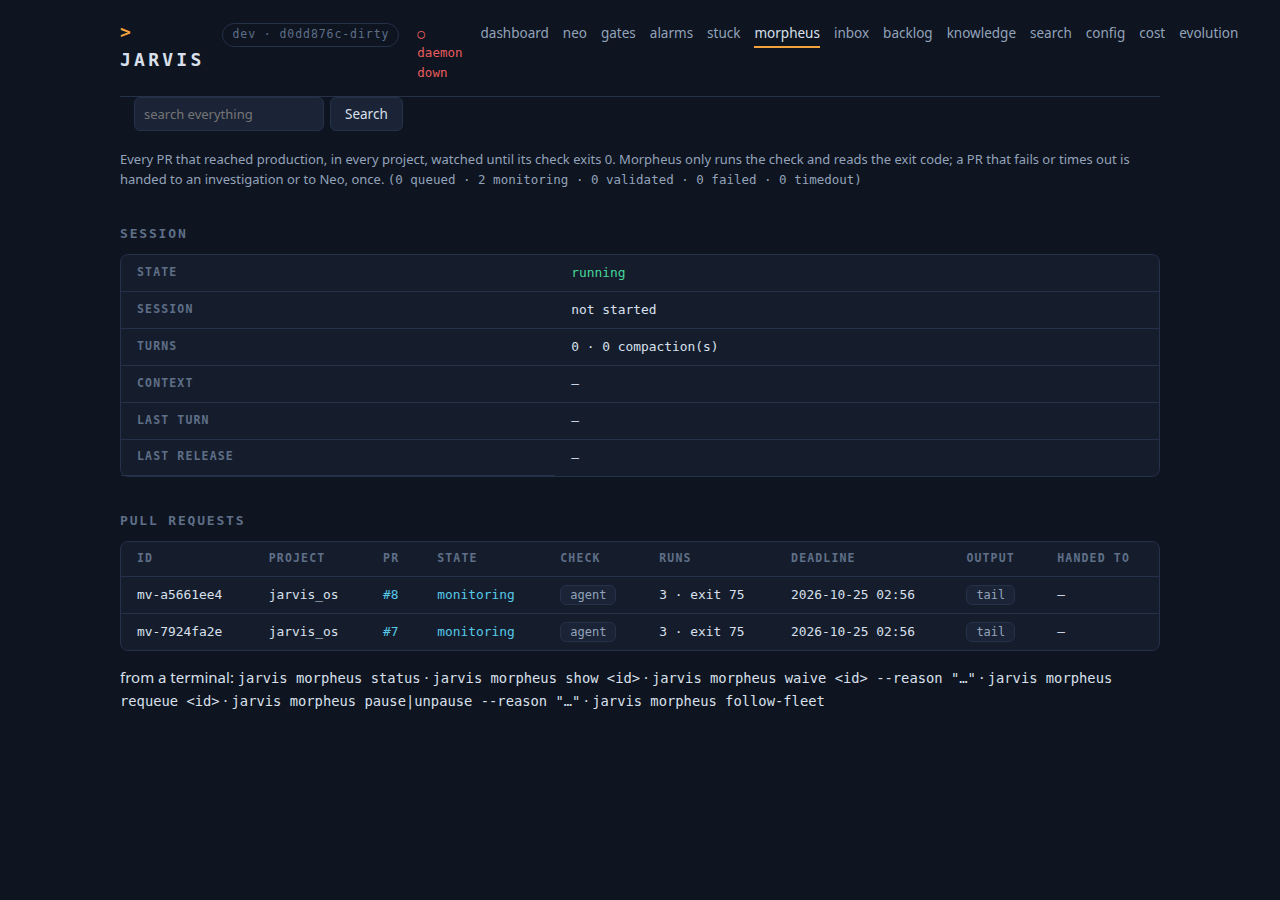
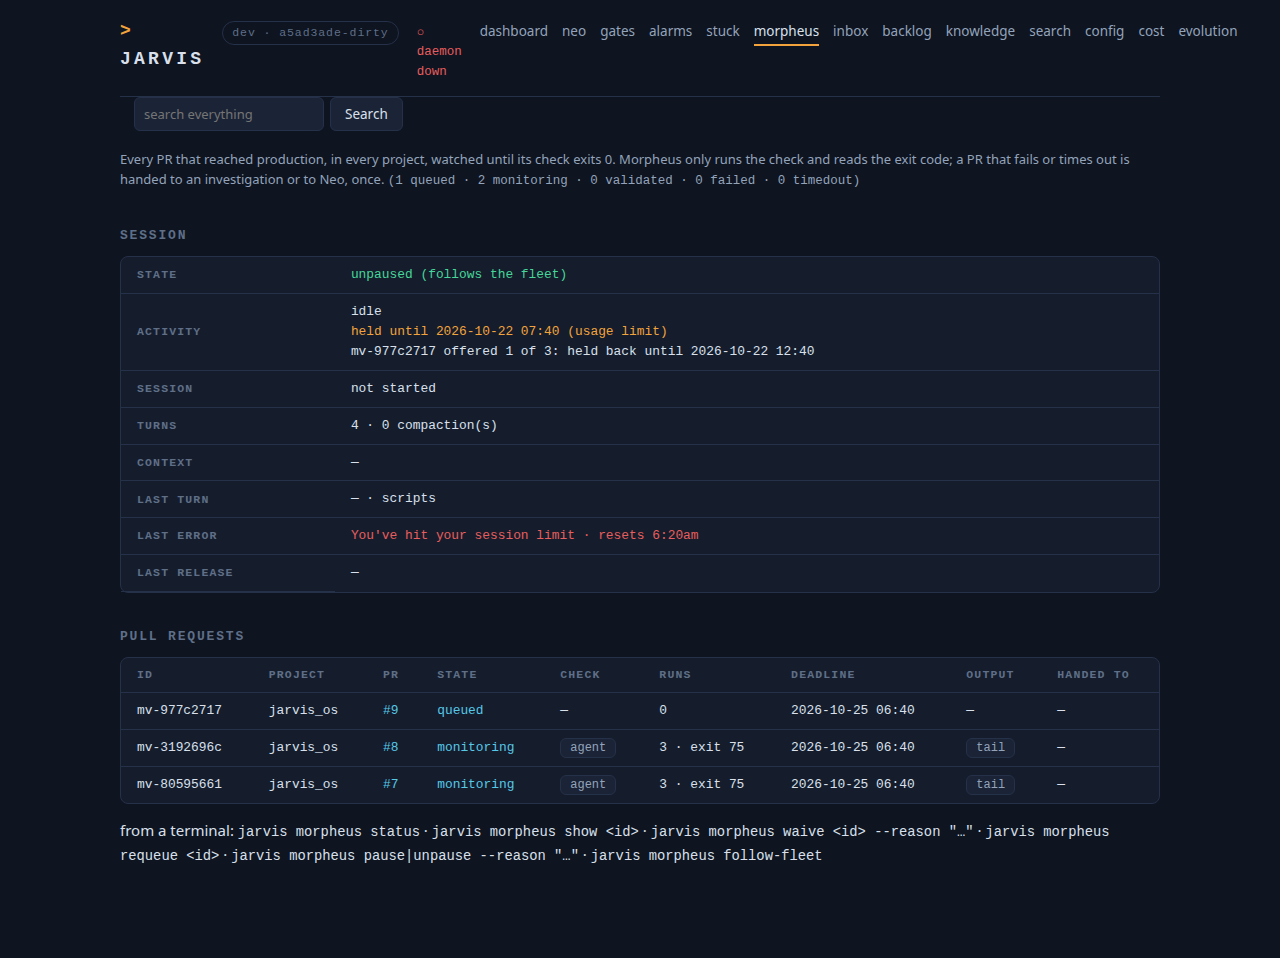
[wo-7ff73f52] Morpheus: a usage-limit refusal costs no offer and holds until the reset (#1172)
* A Morpheus turn refused by the usage window costs no offer (#1171)

UsageLimitError gets its own branch before ClaudeCliError: no offer is spent,
the session is held until the reset instant the error names, and the first pass
after it re-offers the batch. The per-item hold now carries a tri-state cause,
so a pre-#1161 entry no longer claims it was held "after an offer".

Claude-Session: https://claude.ai/code/session_01ADxgfPKtC7fmUBRC45D2Fk

* Screenshot the usage hold on /morpheus for the PR

Claude-Session: https://claude.ai/code/session_01ADxgfPKtC7fmUBRC45D2Fk

* Trim the test docstring the comment check rejected

Claude-Session: https://claude.ai/code/session_01ADxgfPKtC7fmUBRC45D2Fk

---------

diff --git a/src/jarvis/ui/templates/morpheus.html b/src/jarvis/ui/templates/morpheus.html
@@ -52,9 +52,11 @@
       {% if act.turn_in_flight %}<span class="tone-active">{{ act.turn_kind or "turn" }} in flight since {{ fmt_ts(act.turn_started_ts) }}</span>
       {% elif act.abandoned_turn_ts %}<span class="tone-warn">idle — the {{ act.turn_kind or "turn" }} started {{ fmt_ts(act.abandoned_turn_ts) }} never finished</span>
       {% else %}idle{% if act.due %} · {{ act.due }} queued due now{% endif %}{% endif %}
+      {% if act.usage_hold_until %}<br><span class="tone-warn">held until {{ fmt_ts(act.usage_hold_until) }} (usage limit)</span>{% endif %}
+      {% set why = {"error": " after a failed turn", "offer": " after an offer"} %}
       {% for h in act.held %}<br>{{ h.id }} offered {{ h.offers }} of {{ act.max_offers }}:
         {% if h.exhausted %}no offer left, it will time out
-        {% else %}held back after {{ "a failed turn" if h.after_error else "an offer" }} until {{ fmt_ts(h.next_offer_ts) }}{% endif %}
+        {% else %}held back{{ why.get(h.cause, "") }} until {{ fmt_ts(h.next_offer_ts) }}{% endif %}
       {% endfor %}</td></tr>
     <tr><th>session</th><td class="mono">{{ sess.get('session_id') or "not started" }}</td></tr>
     <tr><th>turns</th><td class="mono">{{ sess.get('turns') or 0 }} · {{ sess.get('compactions') or 0 }} compaction(s)

diff --git a/tests/test_morpheus.py b/tests/test_morpheus.py
@@ -9,7 +9,7 @@ from pathlib import Path
 
 import pytest
 
-from jarvis import claude_cli, hooks, morpheus
+from jarvis import claude_cli, db, hooks, morpheus
 from jarvis.catalog import Catalog, CatalogError, MorpheusConfig, OsConfig, parse_catalog
 from jarvis.central_store import CentralStore
 from jarvis.testing import TEST_EPOCH
@@ -542,6 +542,56 @@ def test_a_turn_killed_before_it_answered_costs_no_offer(central, tmp_path):
                          call=turn) == "scripts"
 
 
+def refused(reset_at: float | None) -> "claude_cli.UsageLimitError":
+    return claude_cli.UsageLimitError(claude_cli.UsageLimit(
+        message="You've hit your session limit · resets 6:20am (America/Los_Angeles)",
+        reset_at=reset_at))
+
+
+def test_a_turn_refused_by_the_usage_window_costs_no_offer_and_waits_for_the_reset(central,
+                                                                                   tmp_path):
+    """The model never answered: the same class as a kill (#1171)"""
+    reset_at = TEST_EPOCH + 4000
+    turn = FakeTurn(error=refused(reset_at))
+    queued(central, 2)
+    assert morpheus.wake(central, catalog(), tmp_path, now=TEST_EPOCH,
+                         call=turn) == "usage_limit"
+    state = morpheus.session_state(central)
+    assert state["usage_limits"] == 1 and state["usage_hold_until"] == reset_at
+    assert not state.get("offers") and not state.get("errors")
+    assert morpheus.activity(central, now=TEST_EPOCH + 60)["usage_hold_until"] == reset_at
+    # Not one turn is attempted while the window is spent, whatever is queued
+    turn.error = None
+    assert morpheus.wake(central, catalog(), tmp_path, now=reset_at - 1,
+                         call=turn) == "usage_held"
+    assert len(turn.calls) == 1
+    # The first pass after the reset offers the same batch again
+    assert morpheus.wake(central, catalog(), tmp_path, now=reset_at, call=turn) == "scripts"
+    assert len(turn.calls) == 2
+    assert morpheus.activity(central, now=reset_at)["usage_hold_until"] is None
+
+
+def test_a_refusal_that_named_no_reset_holds_for_the_fallback_delay(central, tmp_path):
+    from jarvis.worker_session import RATE_LIMIT_FALLBACK_DELAY
+
+    queued(central, 2)
+    morpheus.wake(central, catalog(), tmp_path, now=TEST_EPOCH, call=FakeTurn(error=refused(None)))
+    state = morpheus.session_state(central)
+    assert state["usage_hold_until"] == TEST_EPOCH + RATE_LIMIT_FALLBACK_DELAY
+
+
+def test_the_status_line_says_the_session_is_held_by_the_usage_window(central, tmp_path, capsys,
+                                                                     clock):
+    from jarvis.cli import main
+
+    queued(central, 2)
+    morpheus.wake(central, catalog(), tmp_path, now=db.now(),
+                  call=FakeTurn(error=refused(db.now() + 4000)))
+    assert main(["morpheus", "status"]) == 0
+    out = capsys.readouterr().out
+    assert "(usage limit)" in out and "held until" in out
+
+
 # -- 6b. the surfaces say what the session is DOING, not only what it is allowed to do (#1162)
 
 
@@ -576,14 +626,28 @@ def test_a_queued_item_in_the_reoffer_backoff_says_when_and_why(central, tmp_pat
     act = morpheus.activity(central, now=TEST_EPOCH + 60)
     assert act["due"] == 0 and act["turn_in_flight"] is False
     assert act["held"] == [{"id": item["id"], "offers": 1, "exhausted": False,
-                            "after_error": True,
+                            "cause": "error",
                             "next_offer_ts": TEST_EPOCH + morpheus.REOFFER_SECONDS}]
     for n in range(1, morpheus.MAX_OFFERS):
         morpheus.wake(central, catalog(), tmp_path, call=FakeTurn(fail=True),
                       now=TEST_EPOCH + n * morpheus.REOFFER_SECONDS + 1)
     spent = morpheus.activity(central, now=TEST_EPOCH + 10 * DAY)["held"]
     assert spent == [{"id": item["id"], "offers": morpheus.MAX_OFFERS, "exhausted": True,
-                      "after_error": True, "next_offer_ts": None}]
+                      "cause": "error", "next_offer_ts": None}]
+
+
+def test_an_offer_entry_written_before_the_cause_was_recorded_claims_no_cause(central, capsys,
+                                                                             clock):
+    """Pre-#1161 entries were killed turns rendered as 'after an offer'"""
+    from jarvis.cli import main
+
+    item = queued(central, 2)
+    central.set_state(morpheus.SESSION_KEY, json.dumps(
+        {"offers": {item["id"]: {"n": 1, "ts": db.now()}}}))
+    assert morpheus.activity(central, now=db.now() + 60)["held"][0]["cause"] is None
+    assert main(["morpheus", "status"]) == 0
+    out = capsys.readouterr().out
+    assert "held back until" in out and "after an offer" not in out
 
 
 def test_the_status_line_separates_the_pause_mode_from_the_activity(central, tmp_path, capsys,
@@ -782,6 +846,22 @@ def test_the_dashboard_shows_each_item_s_id_to_copy(central):
     page = TestClient(create_app()).get("/morpheus")
     assert f'title="click to select, then copy">{item["id"]}</td>' in page.text
     assert "jarvis morpheus unpause" in page.text and "validate the release" in page.text
+
+
+def test_the_dashboard_shows_the_activity_and_its_backoff_not_only_the_pause_mode(central,
+                                                                                  tmp_path):
+    """#1171: the pause mode read healthy while the usage window held every turn"""
+    from fastapi.testclient import TestClient
+
+    from jarvis.ui.app import create_app
+
+    item = queued(central, 2)
+    morpheus.wake(central, catalog(), tmp_path, now=db.now(),
+                  call=FakeTurn(error=refused(db.now() + 4000)))
+    page = TestClient(create_app()).get("/morpheus").text
+    assert "unpaused (follows the fleet)" in page and "(usage limit)" in page
+    # Nothing was offered, so the item is not held back on its own account
+    assert f"{item['id']} offered" not in page
 
 
 def test_the_dashboard_opens_check_and_output_in_a_modal_not_in_the_table(central):

diff --git a/src/jarvis/morpheus.py b/src/jarvis/morpheus.py
@@ -643,6 +643,12 @@ def wake(central: CentralStore, catalog: Catalog, cwd: Path, *, paused: bool = F
     call = call or claude_cli.run_session_turn
     dirs = dirs or {}
     state = session_state(central)
+    hold = float(state.get("usage_hold_until") or 0)
+    if now < hold:
+        # The account's window is spent: any turn would be refused, so none is attempted (#1171)
+        return "usage_held"
+    if hold:
+        state.pop("usage_hold_until", None)
     items = wanting_scripts(central, now=now)
     if not state.get("compact_due") and not items:
         return "idle"
@@ -662,8 +668,23 @@ def wake(central: CentralStore, catalog: Catalog, cwd: Path, *, paused: bool = F
                       append_system_prompt=MORPHEUS_PERSONA,
                       permission_mode=catalog.os.default_permission_mode,
                       add_dirs=add_dirs, timeout=cfg.turn_timeout_seconds)
+    except claude_cli.UsageLimitError as e:
+        # BEFORE ClaudeCliError, its base: the window refused the call, so it costs no offer (#1171)
+        from .worker_session import RATE_LIMIT_FALLBACK_DELAY
+
+        state.pop("turn_started_ts", None)
+        state["last_error"] = str(e)[:500]
+        state["usage_limits"] = int(state.get("usage_limits") or 0) + 1
+        state["usage_hold_until"] = e.limit.reset_at or now + RATE_LIMIT_FALLBACK_DELAY
+        if not resume:
+            state.pop("session_id", None)
+        _save_session(central, state)
+        log.warning("morpheus turn refused by the usage window, held until %s: %s",
+                    state["usage_hold_until"], e)
+        return "usage_limit"
     except claude_cli.KilledError as e:
         # BEFORE ClaudeCliError, its base: a kill is not an answer, so it costs no offer (#1161)
+        state.pop("turn_started_ts", None)
         state["last_error"] = str(e)[:500]
         state["kills"] = int(state.get("kills") or 0) + 1
         if not resume:
@@ -737,7 +758,17 @@ def _mark_offered(state: dict[str, Any], items: list[dict], now: float,
     offers = state.setdefault("offers", {})
     for item in items:
         seen = offers.get(item["id"]) or {}
-        offers[item["id"]] = {"n": int(seen.get("n") or 0) + 1, "ts": now, "error": error}
+        offers[item["id"]] = {"n": int(seen.get("n") or 0) + 1, "ts": now,
+                              "cause": "error" if error else "offer"}
+
+
+def _offer_cause(seen: dict[str, Any]) -> str | None:
+    """None for an entry written before the cause was recorded — unknown, not "an offer" (#1171)"""
+    if seen.get("cause"):
+        return str(seen["cause"])
+    if "error" in seen:
+        return "error" if seen["error"] else "offer"
+    return None
 
 
 def activity(central: CentralStore, *, timeout: float | None = None,
@@ -758,11 +789,13 @@ def activity(central: CentralStore, *, timeout: float | None = None,
         n, ts = int(seen.get("n") or 0), float(seen.get("ts") or 0)
         if n >= MAX_OFFERS:
             held.append({"id": item["id"], "offers": n, "next_offer_ts": None,
-                         "exhausted": True, "after_error": bool(seen.get("error"))})
+                         "exhausted": True, "cause": _offer_cause(seen)})
         elif now - ts < REOFFER_SECONDS:
             held.append({"id": item["id"], "offers": n, "next_offer_ts": ts + REOFFER_SECONDS,
-                         "exhausted": False, "after_error": bool(seen.get("error"))})
-    return {"turn_in_flight": in_flight, "turn_kind": state.get("last_turn_kind") or "",
+                         "exhausted": False, "cause": _offer_cause(seen)})
+    usage_hold = float(state.get("usage_hold_until") or 0)
+    return {"usage_hold_until": usage_hold if now < usage_hold else None,
+            "turn_in_flight": in_flight, "turn_kind": state.get("last_turn_kind") or "",
             "turn_started_ts": started if in_flight else None,
             "abandoned_turn_ts": started if started and not in_flight else None,
             "due": len(wanting_scripts(central, now=now)),

diff --git a/scripts/screenshot_morpheus.py b/scripts/screenshot_morpheus.py
@@ -34,6 +34,15 @@ def seed() -> None:
         store.update_morpheus_item(item["id"], script=SCRIPT, script_source="agent",
                                    state="monitoring", checks=3, last_exit=75,
                                    last_output="\n".join(f"line {k}: not yet" for k in range(40)))
+    # A usage-window hold, and an offer entry written before the cause was recorded (#1171)
+    pr = morpheus.PullRequestBody(number=9, url="https://github.com/o/r/pull/9",
+                                  title="[wo-1234abc9] thing 9",
+                                  body="## How to validate in production\nlook\n")
+    waiting = morpheus.enqueue(store, MorpheusConfig(), pr, project="jarvis_os", repo="o/r")
+    morpheus._save_session(store, {"last_turn_kind": "scripts", "turns": 4,
+                                   "usage_hold_until": time.time() + 3600,
+                                   "last_error": "You've hit your session limit · resets 6:20am",
+                                   "offers": {waiting["id"]: {"n": 1, "ts": time.time()}}})
     store.close()
 
 
@@ -54,6 +63,7 @@ def shoot() -> None:
         page = browser.new_page(viewport={"width": 1280, "height": 900})
         page.goto(f"http://127.0.0.1:{PORT}/morpheus")
         page.screenshot(path=SHOTS / "morpheus-table.png", full_page=True)
+        page.locator("div.panel").first.screenshot(path=SHOTS / "morpheus-session-hold.png")
         page.locator("button.peek", has_text="agent").first.click()
         page.wait_for_timeout(200)
         page.screenshot(path=SHOTS / "morpheus-check-modal.png")

diff --git a/src/jarvis/cli.py b/src/jarvis/cli.py
@@ -3951,12 +3951,14 @@ def _morpheus_activity_text(act: dict) -> str:
                  f"{_stamp(act['abandoned_turn_ts'])} never finished)"]
     else:
         parts = [f"idle · {act['due']} queued due now" if act["due"] else "idle"]
+    if act.get("usage_hold_until"):
+        parts.append(f"held until {_stamp(act['usage_hold_until'])} (usage limit)")
     for h in act["held"]:
-        why = "a failed turn" if h["after_error"] else "an offer"
+        why = {"error": " after a failed turn", "offer": " after an offer"}.get(h["cause"], "")
         parts.append(f"{h['id']} offered {h['offers']} of {act['max_offers']}: "
                      + ("no offer left, it will time out"
                         if h["exhausted"]
-                        else f"held back after {why} until {_stamp(h['next_offer_ts'])}"))
+                        else f"held back{why} until {_stamp(h['next_offer_ts'])}"))
     return " · ".join(parts)
 
 
